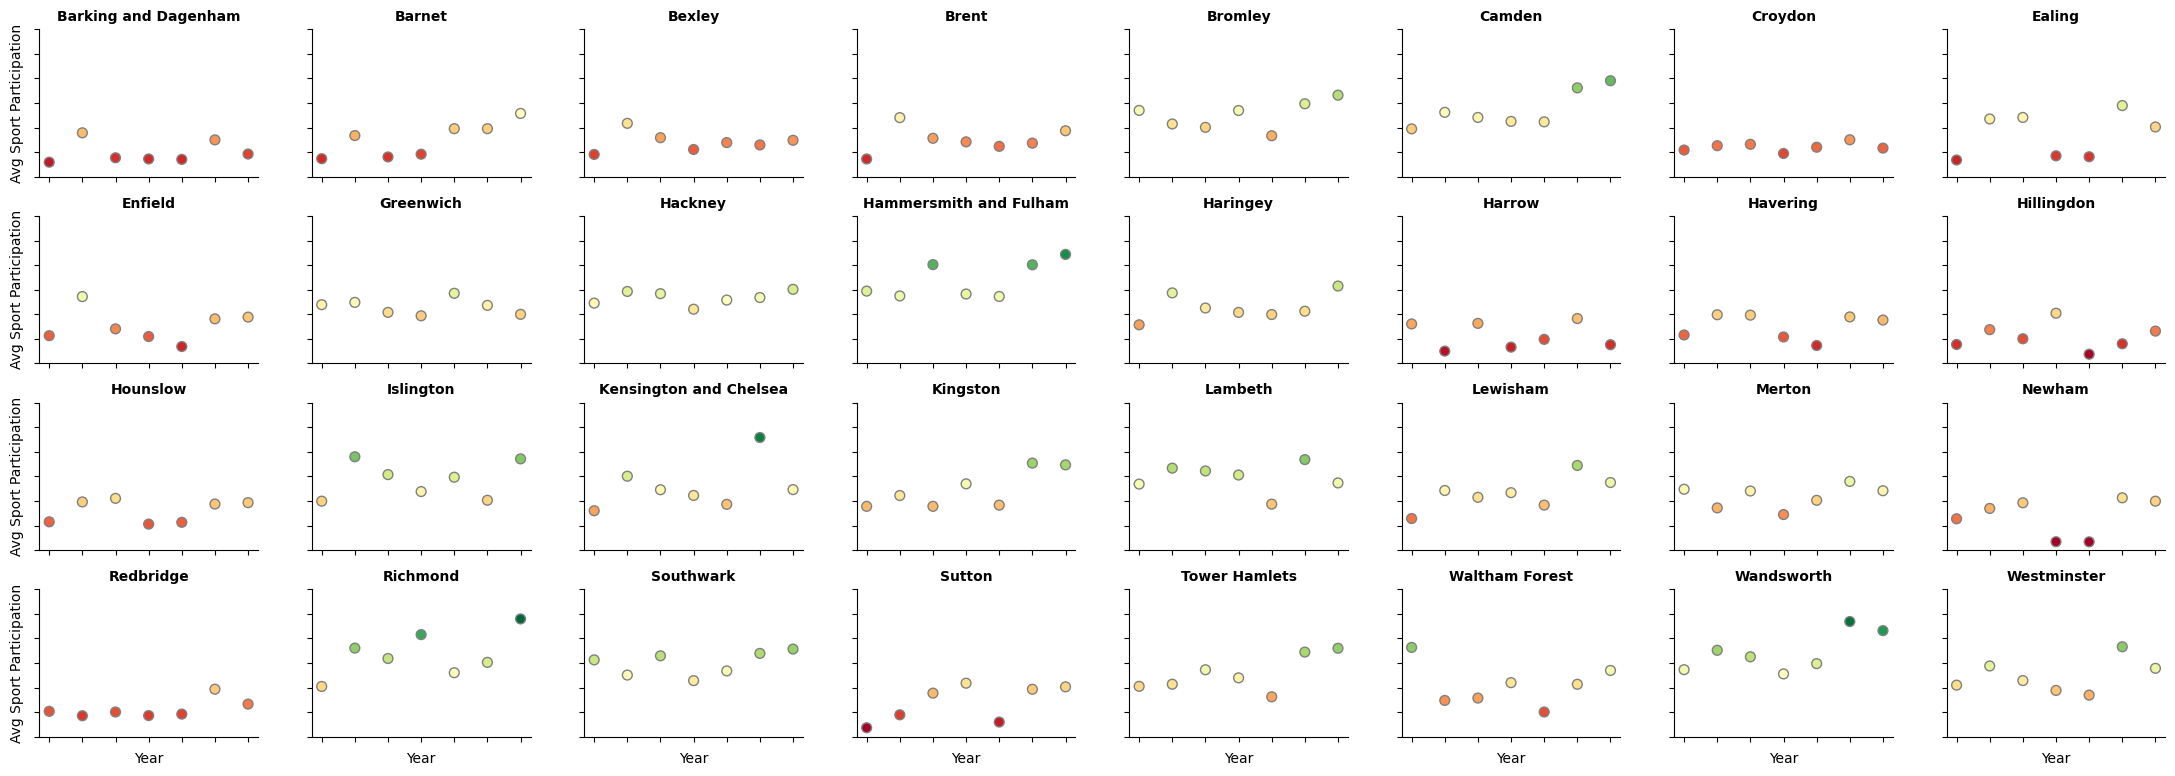
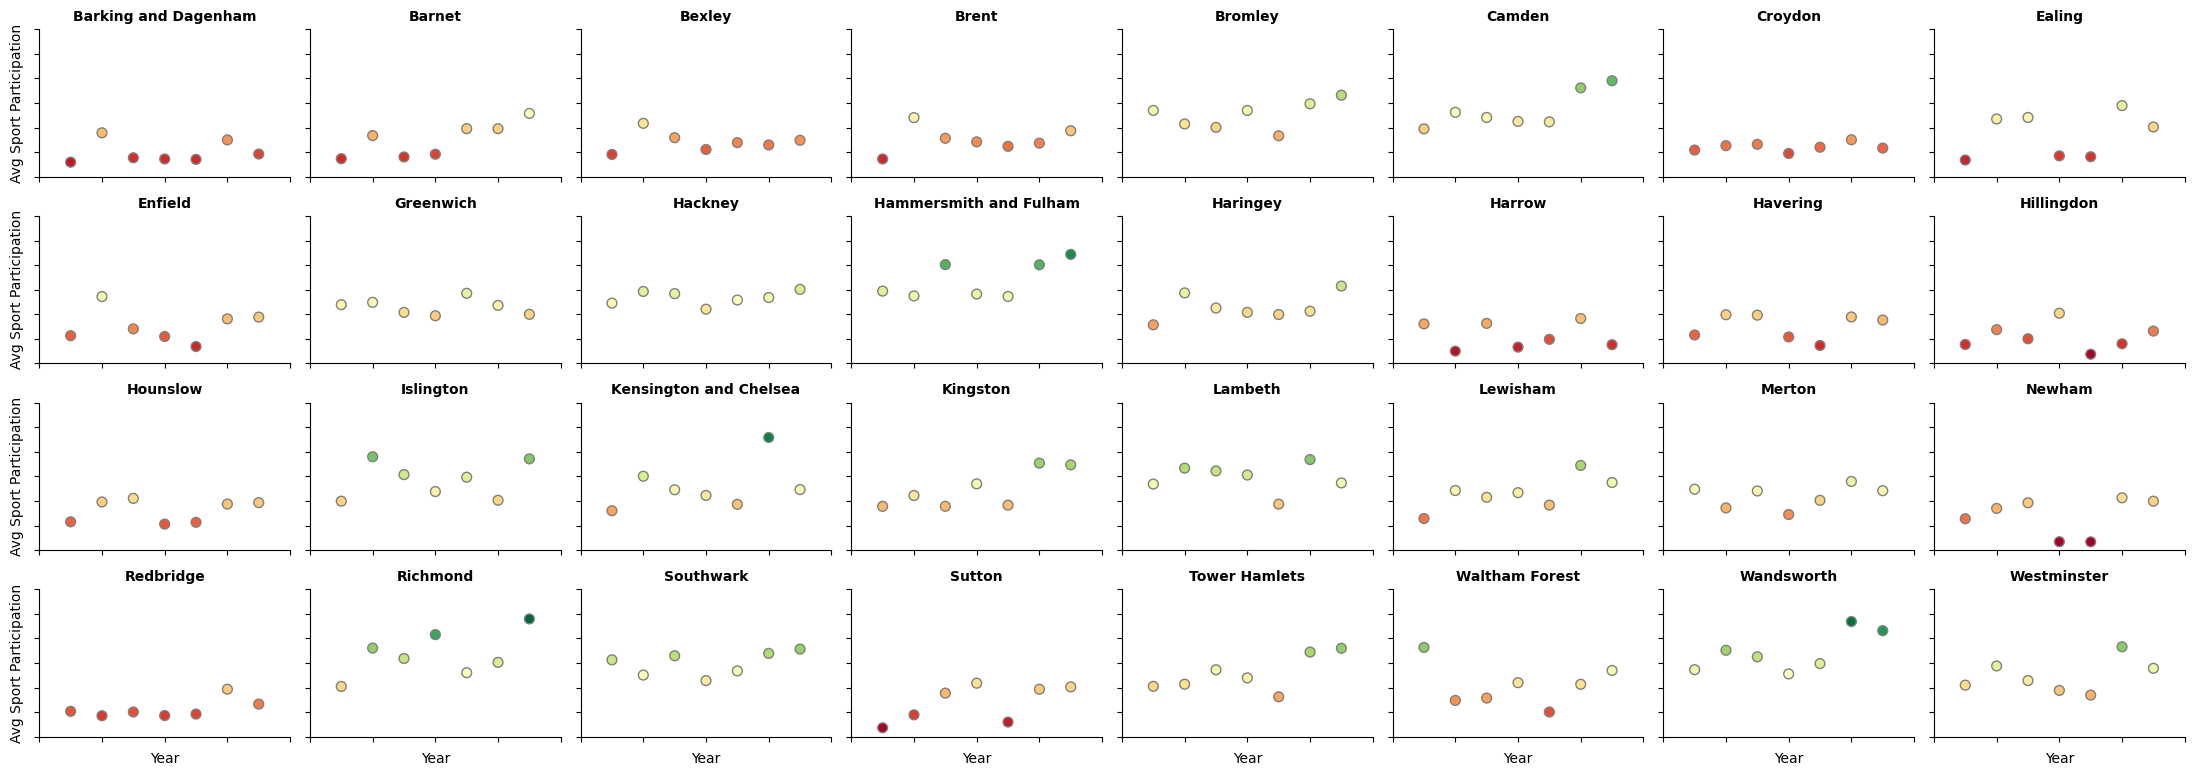
KAN-75: Update year selection logic (survey begins in NOV)

diff --git a/src/stream_1/averages_examination.py b/src/stream_1/averages_examination.py
@@ -6,13 +6,14 @@ import matplotlib.pyplot as plt
 borough_df = prepare_borough_data()
 borough_df['LA_Name'] = borough_df['LA_Name'].replace({'Kingston upon Thames': 'Kingston', 'Richmond upon Thames': 'Richmond', 'Barking and Dagenham' : 'Barking', 'Hammersmith and Fulham' : 'Hammersmith'})
 national = prepare_national_data()
+print(national)
 
 # Define COVID constants
-PRE_COVID_YEAR = '2018/19'
-COVID_YEAR = '2019/20'
-POST_COVID_YEAR1 = '2020/21'
-POST_COVID_YEAR2 = '2021/22'
-POST_COVID_YEAR3 = '2022/23'
+PRE_COVID_YEAR = 2019
+COVID_YEAR = 2020
+POST_COVID_YEAR1 = 2021
+POST_COVID_YEAR2 = 2022
+POST_COVID_YEAR3 = 2023
 
 def plot_national_comparison():
     _, (ax1, ax2, ax3) = plt.subplots(1, 3, figsize = (25, 6), sharey = True)
@@ -23,6 +24,7 @@ def plot_national_comparison():
         if (subset['MEMS7_ALL'] > national['MEMS7_ALL']).all():
             ax1.plot(subset['year'], subset['MEMS7_ALL'], alpha = 0.55, color = '#82B366', zorder = 2, linewidth = 1.5, marker='o', markersize = 4)
             ax1.plot(national['year'], national['MEMS7_ALL'], linestyle = 'dashed', color = 'black', linewidth = 3, zorder = 5)
+            ax1.set_xticks(national['year'])
             ax1.set_xticklabels(national['year'], rotation = 45, ha = 'right')
             ax1.set_title('Always Above Average', weight = 'bold', fontsize = 15, color = '#82B366')
             if borough == 'Lambeth':
@@ -35,6 +37,7 @@ def plot_national_comparison():
         elif (subset['MEMS7_ALL'] < national['MEMS7_ALL']).all():
             ax2.plot(subset['year'], subset['MEMS7_ALL'], alpha = 0.55, color = '#B85450', zorder = 2, linewidth = 1.5, marker='o', markersize = 4)
             ax2.plot(national['year'], national['MEMS7_ALL'], linestyle = 'dashed', color = 'black', linewidth = 3, zorder = 5)
+            ax2.set_xticks(national['year'])
             ax2.set_xticklabels(national['year'], rotation = 45, ha = 'right')
             ax2.set_title('Always Below Average', weight = 'bold', fontsize = 15, color = '#B85450')
             if borough == 'Newham':
@@ -63,6 +66,7 @@ def plot_national_comparison():
             else:
                 ax3.plot(subset['year'], subset['MEMS7_ALL'], alpha = 0.55, color = '#FFCC99', zorder = 2, linewidth = 1.5, marker='o', markersize = 4)
             ax3.plot(national['year'], national['MEMS7_ALL'], linestyle = 'dashed', color = 'black', linewidth = 3, zorder = 5)
+            ax3.set_xticks(national['year'])
             ax3.set_xticklabels(national['year'], rotation = 45, ha = 'right')
             ax3.set_aspect(0.022) 
             ax3.set_title('Fluctuating', weight = 'bold', fontsize = 15, color = "#EABA8A") 

diff --git a/src/stream_1/bayesian_regression.py b/src/stream_1/bayesian_regression.py
@@ -7,13 +7,11 @@ import matplotlib.pyplot as plt
 
 def bayesian_ridge_forecast_borough(included_years : list, forecast_years: list, target_col: str) -> pd.DataFrame:
     borough_df = prepare_borough_data()
-    # Handle year conversion from e.g: 2016/17 -> 2016 and select years
-    borough_df['year'] = borough_df['year'].str.split('/').str[0].astype(int)
     borough_df = borough_df[borough_df['year'].isin(included_years)]
     output = []
     for borough in borough_df['LA_Name'].unique():
-        X_train = (np.array(included_years) - 2016).reshape(-1, 1)
-        X_forecast = (np.array(forecast_years) - 2016).reshape(-1, 1)
+        X_train = (np.array(included_years) - 2017).reshape(-1, 1)
+        X_forecast = (np.array(forecast_years) - 2017).reshape(-1, 1)
         Y_train = borough_df[borough_df['LA_Name'] == borough][target_col].values
         model = BayesianRidge()
         model.fit(X_train, Y_train)
@@ -28,8 +26,8 @@ def bayesian_ridge_forecast_borough(included_years : list, forecast_years: list,
 
 # Forecast Visualisation
 if __name__ == "__main__":
-    INCLUDED_YEARS =  [2016, 2017, 2018, 2019, 2020, 2021, 2022]
-    FORECAST_YEARS = [2023, 2024, 2025, 2026]
+    INCLUDED_YEARS =  [2017, 2018, 2019, 2020, 2021, 2022, 2023]
+    FORECAST_YEARS = [2024, 2025, 2026, 2027]
     full_df = bayesian_ridge_forecast_borough(INCLUDED_YEARS, FORECAST_YEARS, target_col = 'MEMS7_ALL')
     colours = ['#808080'] * len(INCLUDED_YEARS) + ['#00BFFF'] * len(FORECAST_YEARS)
     g = sns.relplot(kind = 'scatter', 

diff --git a/src/stream_1/prepare_boroughs.py b/src/stream_1/prepare_boroughs.py
@@ -10,6 +10,7 @@ from src.loading_data.data_catalogue import DataCatalogue
 
 def prepare_borough_data():
     borough_df = get_geographic_data()
+    borough_df['year'] = borough_df['year'].str.split('/').str[1].astype(int) + 2000
     borough_df = borough_df.groupby(['LA_2023', 'LA_Name', 'year'])['MEMS7_ALL'].mean()
     borough_df = borough_df.reset_index()
     borough_df['LA_Name'] = borough_df['LA_Name'].replace({'Kingston upon Thames': 'Kingston', 'Richmond upon Thames': 'Richmond'})
@@ -18,6 +19,7 @@ def prepare_borough_data():
 
 def prepare_national_data():
     national_df = get_geographic_data()
+    national_df['year'] = national_df['year'].str.split('/').str[1].astype(int) + 2000
     national_df = national_df.groupby('year')['MEMS7_ALL'].mean()
     national_df = national_df.reset_index()
     return national_df
